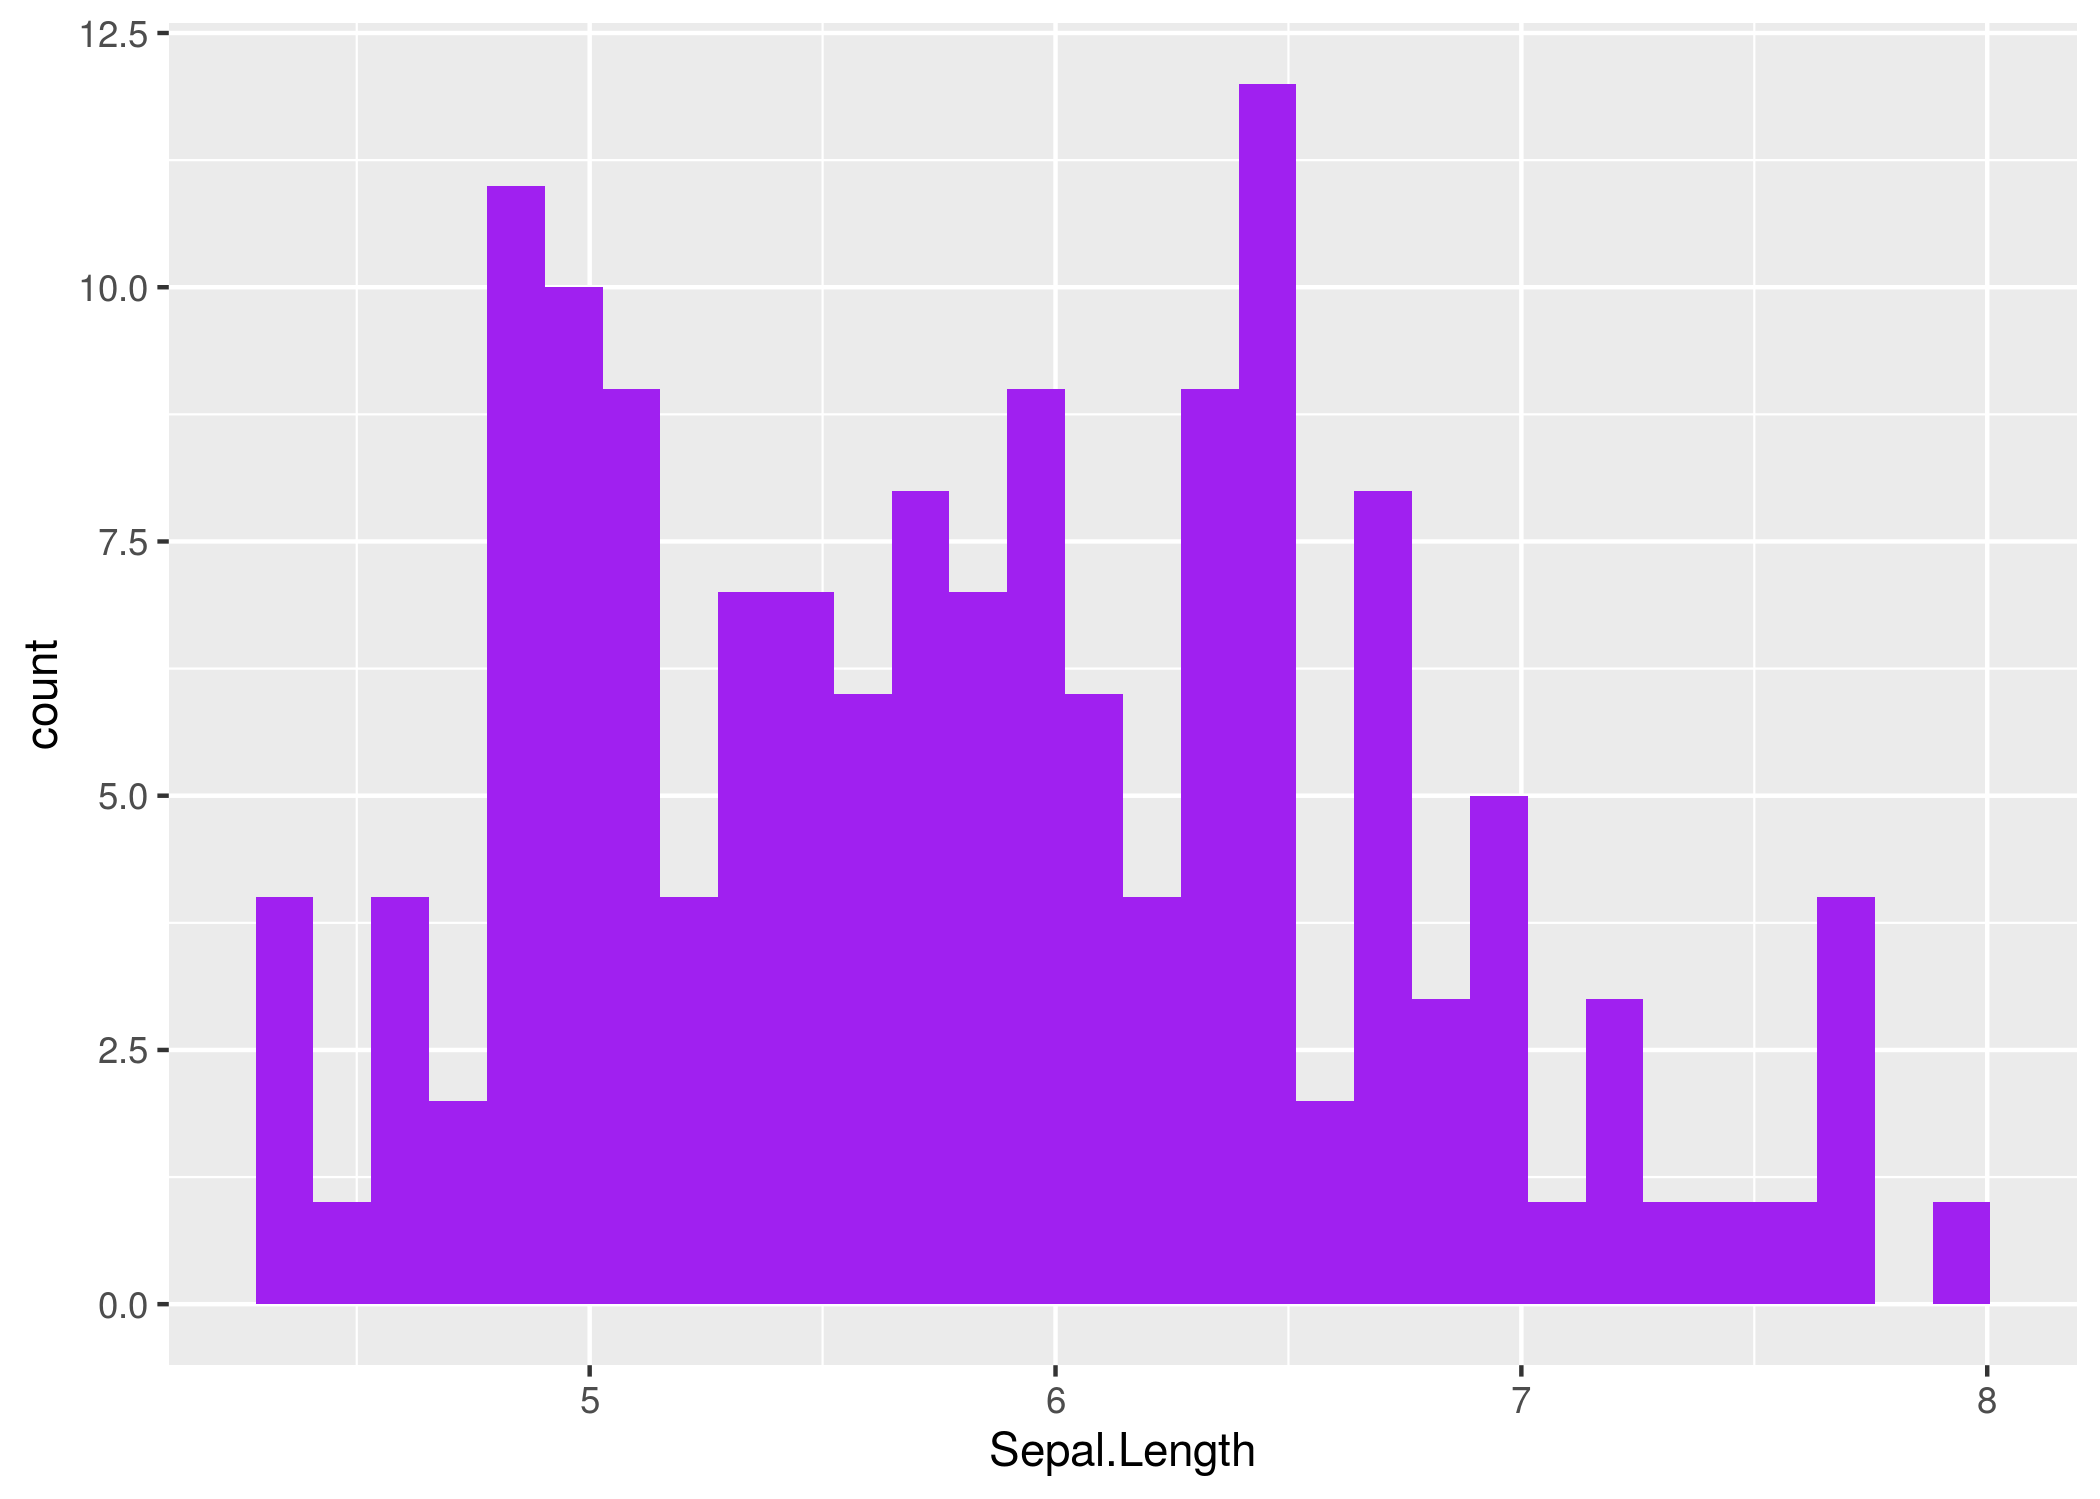
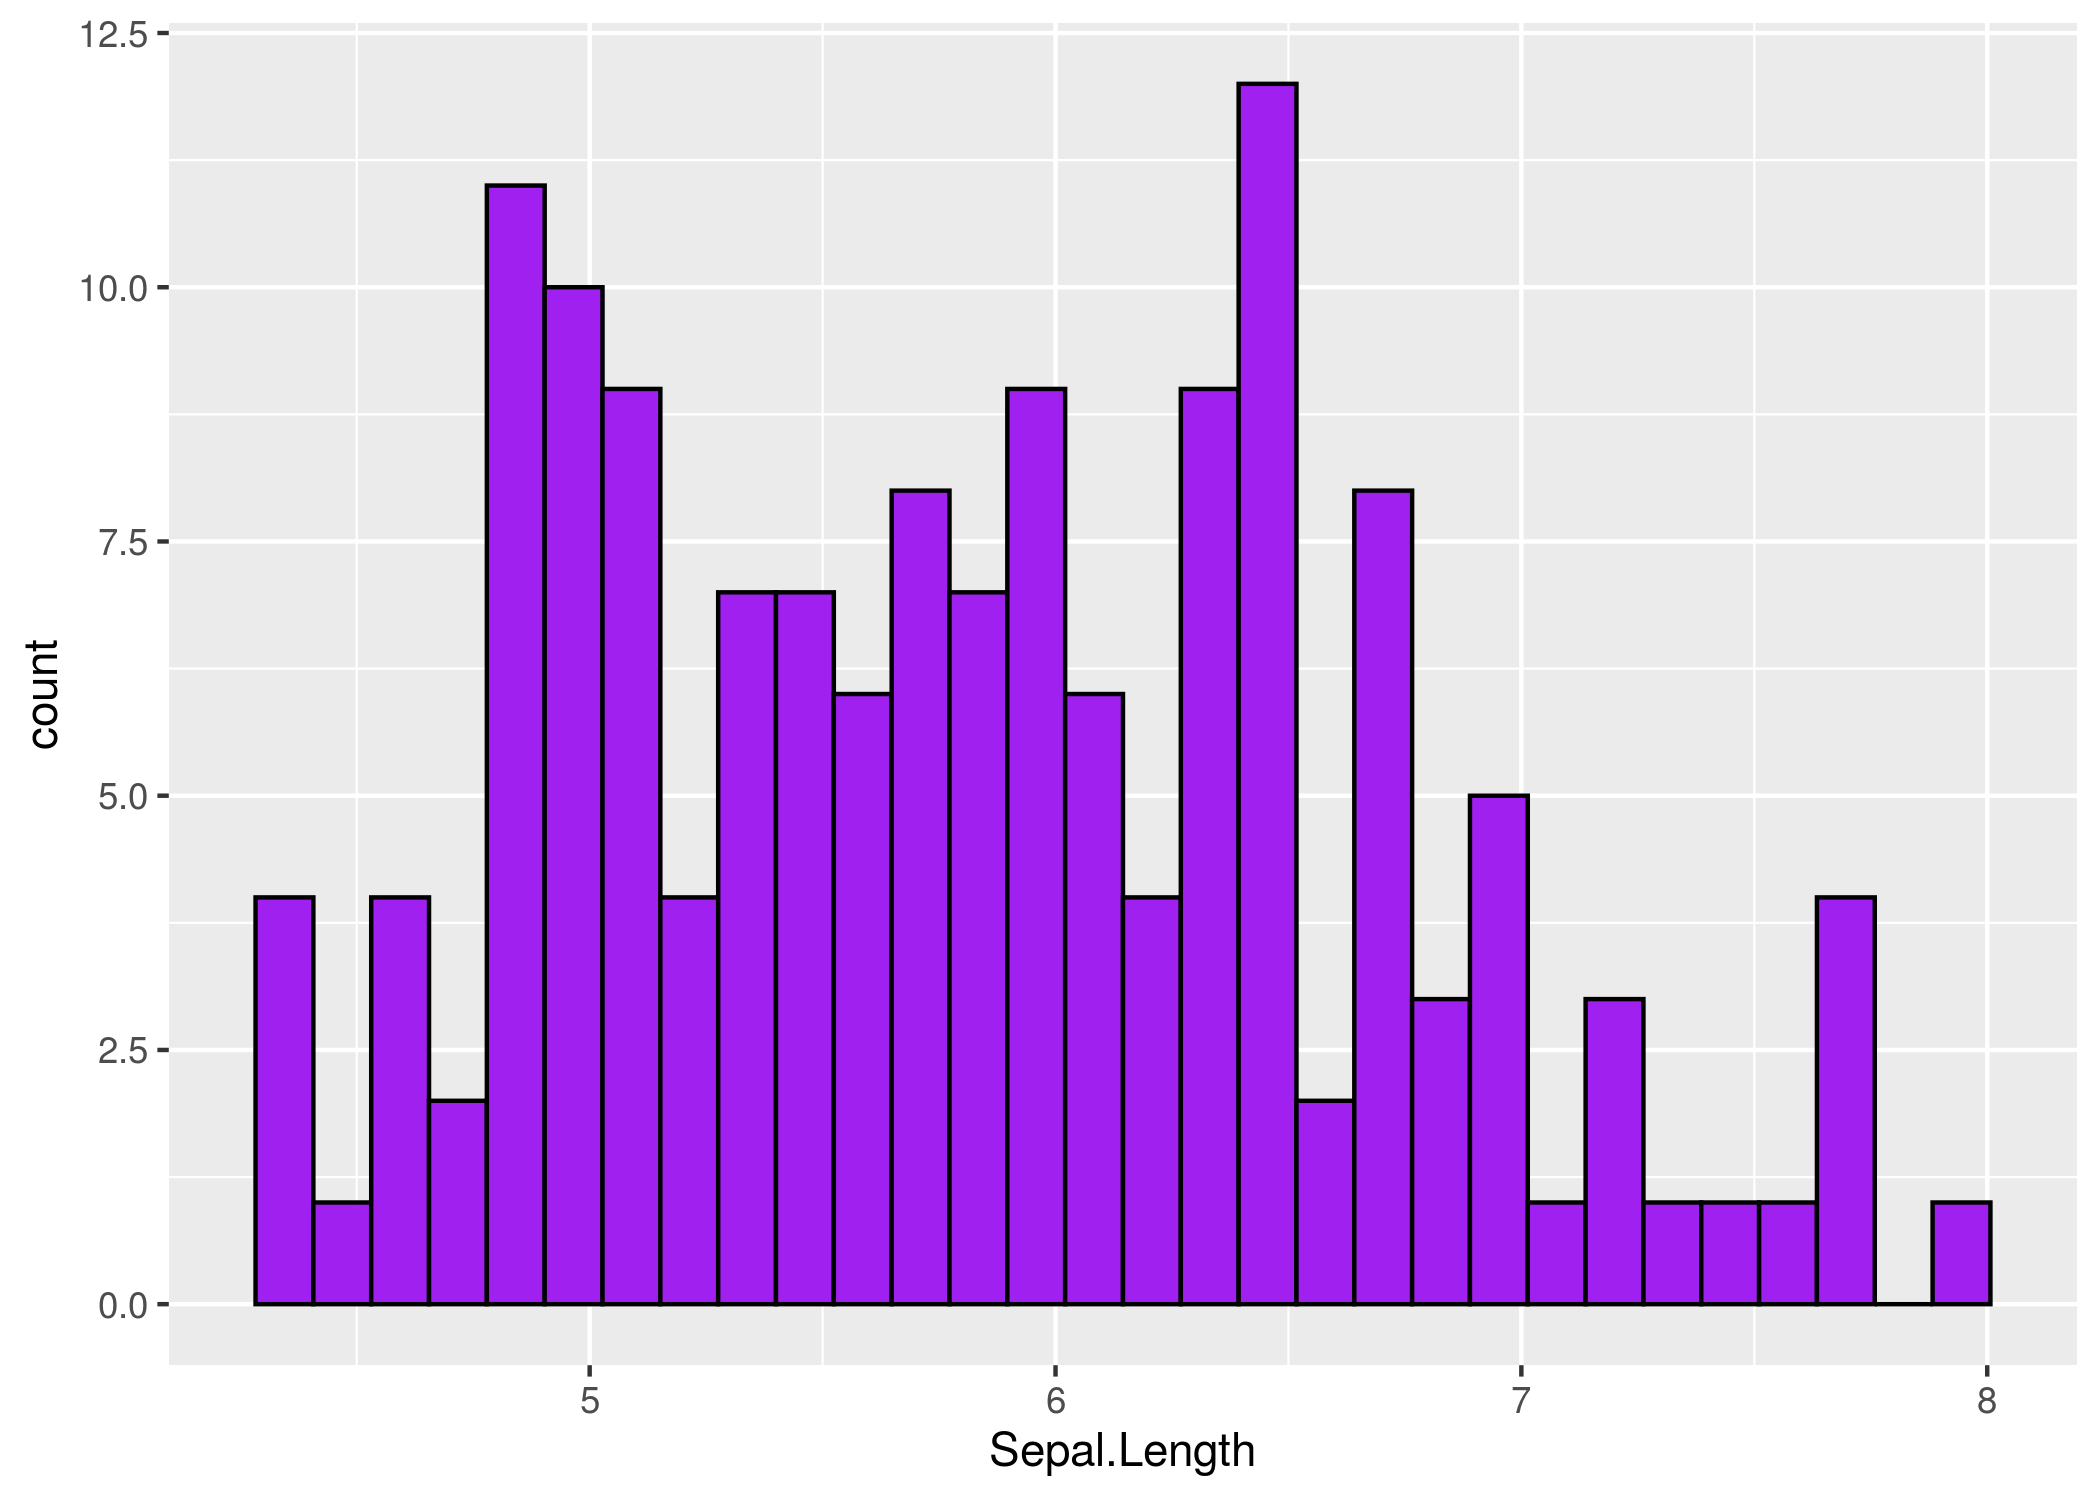
modified plot

diff --git a/practice_plot_githhub.html b/practice_plot_githhub.html
@@ -378,7 +378,7 @@ summary {
 ## 5          5.0         3.6          1.4         0.2  setosa
 ## 6          5.4         3.9          1.7         0.4  setosa</code></pre>
 <pre class="r"><code>ggplot(iris, aes(x=Sepal.Length))+
-  geom_histogram(fill=&quot;purple&quot;) -&gt; myplot
+  geom_histogram(fill=&quot;purple&quot;, color=&quot;black&quot;) -&gt; myplot
 ggsave(&quot;practice_plot.png&quot;, myplot)</code></pre>
 <pre><code>## Saving 7 x 5 in image</code></pre>
 <pre><code>## `stat_bin()` using `bins = 30`. Pick better value with `binwidth`.</code></pre>
